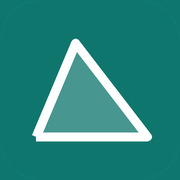
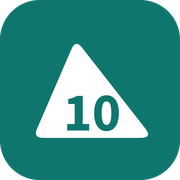
Eigenes App-Symbol mit der Klassenstufe 10 im Dreieck
Claude-Session: https://claude.ai/code/session_014D9hKSKrHf7yofxRtPT2Vd

diff --git a/index.html b/index.html
@@ -37,7 +37,7 @@ html.fs #fs .fo{display:inline}
 <body>
 <div class="top"><h1>Mathe 10</h1><button id="fs" aria-label="Vollbild" title="Vollbild (F)"><svg viewBox="0 0 24 24" aria-hidden="true"><path class="fi" d="M4 9V4h5M15 4h5v5M20 15v5h-5M9 20H4v-5"/><path class="fo" d="M9 4v5H4M20 9h-5V4M15 20v-5h5M4 15h5v5"/></svg></button></div>
 <section><h2>Parabeln strecken, stauchen und verschieben</h2><div class="row"><a class="go" href="parabeln.html">Einführung</a><a href="ab.html?n=ab-parabeln">Blatt</a></div></section>
-<div class="fassung"><span>Fassung <span id="stand">24.11.2026 17:56</span></span><button id="aktualisieren" type="button">Neueste Fassung laden</button><span id="fassung-status"></span></div>
+<div class="fassung"><span>Fassung <span id="stand">24.11.2026 18:09</span></span><button id="aktualisieren" type="button">Neueste Fassung laden</button><span id="fassung-status"></span></div>
 <script>
 // Vollbild: Knopf oder Taste F. Nach einem Seitenwechsel holt der erste Tipp das Vollbild zurück.
 (() => {

diff --git a/sw.js b/sw.js
@@ -1,5 +1,5 @@
 // Eigener Cache-Präfix, damit andere Werkzeuge unter derselben Adresse unberührt bleiben.
-const CACHE = 'plenum10-81e5b82e';
+const CACHE = 'plenum10-87a7a13c';
 // Alles, was beim ersten Aufruf in den Speicher kommt.
 const FILES = [
   './',
